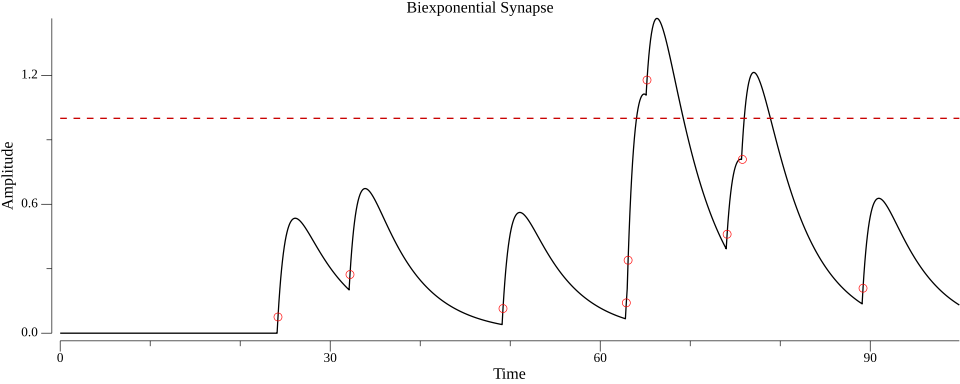
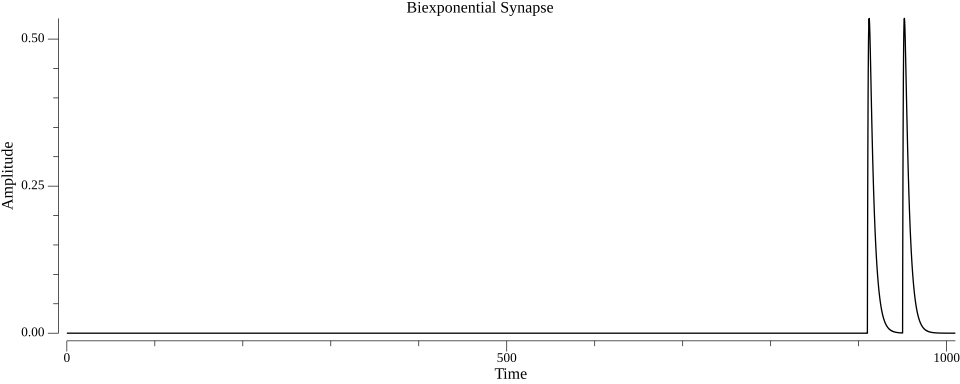
Agent 0 elimination synapse working

diff --git a/src/algo/UnitTest.go b/src/algo/UnitTest.go
@@ -1,35 +1,12 @@
 package algo
 
 import (
-	"image/color"
-	"math/rand"
-
 	"gonum.org/v1/plot"
 	"gonum.org/v1/plot/plotter"
 	"gonum.org/v1/plot/vg"
 )
 
-func (syn BiexpSynapse) TestSynapse() {
-
-	upperLimit := 100.0
-	tickTotal := int(upperLimit / syn.Dt)
-
-	output := make([]float64, tickTotal)
-	var spikeTimes []float64
-
-	for i := 0; i < tickTotal; i++ {
-
-		t := float64(i) * syn.Dt
-
-		input := rand.Intn(100) == 99
-		if input {
-			syn.Inject(1.0)
-			spikeTimes = append(spikeTimes, t)
-		}
-
-		output[i] = syn.Advance()
-	}
-
+func (syn BiexpSynapse) PlotSynapse() {
 	// Create plot
 	p := plot.New()
 	p.Title.Text = "Biexponential Synapse"
@@ -37,36 +14,14 @@ func (syn BiexpSynapse) TestSynapse() {
 	p.Y.Label.Text = "Amplitude"
 
 	// ---- Output Line ----
-	pts := make(plotter.XYs, tickTotal)
-	for i := range output {
+	pts := make(plotter.XYs, len(syn.Output))
+	for i := range syn.Output {
 		pts[i].X = float64(i) * syn.Dt
-		pts[i].Y = output[i]
+		pts[i].Y = syn.Output[i]
 	}
 
 	line, _ := plotter.NewLine(pts)
 	p.Add(line)
-
-	// ---- Spike Markers (Red) ----
-	spikePts := make(plotter.XYs, len(spikeTimes))
-	for i, t := range spikeTimes {
-		spikePts[i].X = t
-		index := int(t / syn.Dt)
-		spikePts[i].Y = output[index]
-	}
-
-	scatter, _ := plotter.NewScatter(spikePts)
-	scatter.GlyphStyle.Color = color.RGBA{R: 255, A: 255}
-	scatter.GlyphStyle.Radius = vg.Points(3)
-	p.Add(scatter)
-
-	// ---- Threshold Line at 1.0 ----
-	threshold := plotter.NewFunction(func(x float64) float64 {
-		return 1.0
-	})
-	threshold.Color = color.RGBA{R: 200, G: 0, B: 0, A: 255}
-	threshold.Dashes = []vg.Length{vg.Points(5), vg.Points(5)}
-
-	p.Add(threshold)
 
 	p.Save(10*vg.Inch, 4*vg.Inch, "synapse_output.png")
 }

diff --git a/src/agent/TMTAgent.go b/src/agent/TMTAgent.go
@@ -11,6 +11,7 @@ type TMTAgent struct {
 	*agent.BaseAgent[ITMTAgent] `json:"-"`
 	cfg                         config.AgentConfig
 	env                         env.IEnvironment
+	serv                        ServerAPI
 	Name                        string
 	Pos                         env.Position
 	obstructions                map[env.Position]struct{}
@@ -39,11 +40,8 @@ func (tmta *TMTAgent) BroadcastPosition() {
 	tmta.BroadcastSynchronousMessage(msg)
 }
 
-func (tmta *TMTAgent) TestMySynapse() {
-	tmta.Syn.TestSynapse()
-}
-
 func (tmta *TMTAgent) PlayTurn() {
+	tmta.DriveModel()
 
 	// Always try to harvest resources, then move if that fails
 	if !tmta.HarvestResources() {
@@ -54,11 +52,12 @@ func (tmta *TMTAgent) PlayTurn() {
 	tmta.SignalMessagingComplete()
 }
 
-func NewTMTAgent(funcs agent.IExposedServerFunctions[ITMTAgent], cfg config.AgentConfig, env env.IEnvironment, name string, initPos env.Position) *TMTAgent {
+func NewTMTAgent(funcs agent.IExposedServerFunctions[ITMTAgent], cfg config.AgentConfig, env env.IEnvironment, serv ServerAPI, name string, initPos env.Position) *TMTAgent {
 	return &TMTAgent{
 		BaseAgent: agent.CreateBaseAgent(funcs),
 		cfg:       cfg,
 		env:       env,
+		serv:      serv,
 		Name:      name,
 		Pos:       initPos,
 		Energy:    cfg.StartingEnergy,

diff --git a/src/algo/BiexpSynapse.go b/src/algo/BiexpSynapse.go
@@ -13,7 +13,7 @@ type BiexpSynapse struct {
 	riseFactor  float64
 	decayFactor float64
 
-	Output   float64
+	Output   []float64
 	Outgoing []Connection
 }
 
@@ -33,6 +33,7 @@ func NewBiexpSynapse(tauRise, tauDecay, dt float64) *BiexpSynapse {
 		Dt:          dt,
 		riseFactor:  math.Exp(-dt / tauRise),
 		decayFactor: math.Exp(-dt / tauDecay),
+		Output:      make([]float64, 0),
 	}
 }
 
@@ -44,11 +45,13 @@ func (syn *BiexpSynapse) Inject(w float64) {
 func (syn *BiexpSynapse) Advance() float64 {
 	syn.riseState *= syn.riseFactor
 	syn.decayState *= syn.decayFactor
-	return syn.decayState - syn.riseState
+	val := syn.decayState - syn.riseState
+	syn.Output = append(syn.Output, val)
+	return val
 }
 
 func (syn *BiexpSynapse) Propagate(output float64) {
 	for _, conn := range syn.Outgoing {
-		conn.Target.Inject(conn.Weight * syn.Output)
+		conn.Target.Inject(conn.Weight * syn.Output[len(syn.Output)-1])
 	}
 }

diff --git a/src/server/AgentControl.go b/src/server/AgentControl.go
@@ -35,6 +35,7 @@ func (serv *GameServer) EstablishInitialObstructions() {
 
 func (serv *GameServer) DrainAgents() {
 	// Drain agent, and if -ve energy, kill it
+	serv.elims = 0
 	for _, ag := range serv.GetAgentMap() {
 		ag.ChangeEnergy(-1)
 		if ag.GetEnergy() < 0 {
@@ -46,6 +47,7 @@ func (serv *GameServer) DrainAgents() {
 func (serv *GameServer) KillAgent(ag agent.ITMTAgent) {
 	serv.Env.PlaceGrave(ag.GetPos())
 	serv.RemoveAgent(ag)
+	serv.elims++
 }
 
 func (serv *GameServer) IntroduceAgents() {
@@ -66,7 +68,7 @@ func (serv *GameServer) IntroduceAgents() {
 	// Introduce agents, assigning random unique positions
 	for i := 0; i < serv.cfg.NumAgents; i++ {
 		pos := positions[i]
-		ga := agent.NewTMTAgent(serv, serv.agCfg, serv.Env, fmt.Sprintf("Agent %d", i), pos)
+		ga := agent.NewTMTAgent(serv, serv.agCfg, serv.Env, serv, fmt.Sprintf("Agent %d", i), pos)
 		serv.AddAgent(ga)
 	}
 }

diff --git a/src/server/GameServer.go b/src/server/GameServer.go
@@ -18,6 +18,7 @@ type GameServer struct {
 	agCfg config.AgentConfig
 	Env   *env.Environment
 	Conn  net.Conn
+	elims int
 }
 
 func (serv *GameServer) RunTurn(i, j int) {
@@ -31,10 +32,6 @@ func (serv *GameServer) RunTurn(i, j int) {
 }
 
 func (serv *GameServer) RunStartOfIteration(int) {
-	for _, ag := range serv.GetShuffledAgents() {
-		ag.TestMySynapse()
-		break
-	}
 }
 
 func (serv *GameServer) RunEndOfIteration(int) {
@@ -53,6 +50,7 @@ func NewGameServer(cfg config.Config) *GameServer {
 		Env:        env.NewEnvironment(cfg.Env),
 		cfg:        cfg.Serv,
 		agCfg:      cfg.Agent, // Stored for spawning more agents later
+		elims:      0,
 	}
 
 	// Add agents

diff --git a/src/agent/TMTModel.go b/src/agent/TMTModel.go
@@ -1,0 +1,23 @@
+package agent
+
+import "fmt"
+
+func (tmta *TMTAgent) DriveModel() {
+	elims := tmta.serv.GetEliminationCount()
+	if elims > 0 {
+		elims_flt := float64(elims)
+		tmta.Syn.Inject(elims_flt)
+		fmt.Printf("Injected an elim spike for agent: %s\n", tmta.Name)
+	}
+
+	for i := 0; i < 100; i++ {
+		tmta.Syn.Advance()
+
+	}
+
+	if tmta.Name == "Agent 0" && tmta.Energy <= 1 {
+		fmt.Println("AGENT 0 HIT")
+		tmta.Syn.PlotSynapse()
+	}
+
+}

diff --git a/src/config/config.go b/src/config/config.go
@@ -41,7 +41,7 @@ type ResourceConfig struct {
 func NewConfig() Config {
 	return Config{
 		Serv: ServerConfig{
-			Iterations: 2,
+			Iterations: 10,
 			Turns:      50,
 			NumAgents:  4,
 		},

diff --git a/src/server/AgentCallable.go b/src/server/AgentCallable.go
@@ -1,0 +1,7 @@
+package server
+
+// Functions explicitly callable by the agent via the ServerAPI will be placed here
+
+func (serv *GameServer) GetEliminationCount() int {
+	return serv.elims
+}

diff --git a/src/agent/ITMTAgent.go b/src/agent/ITMTAgent.go
@@ -10,8 +10,6 @@ type ITMTAgent interface {
 
 	BroadcastPosition()
 
-	TestMySynapse()
-
 	PlayTurn()
 
 	GetPos() env.Position

diff --git a/src/agent/ServerAPI.go b/src/agent/ServerAPI.go
@@ -1,0 +1,5 @@
+package agent
+
+type ServerAPI interface {
+	GetEliminationCount() int
+}
